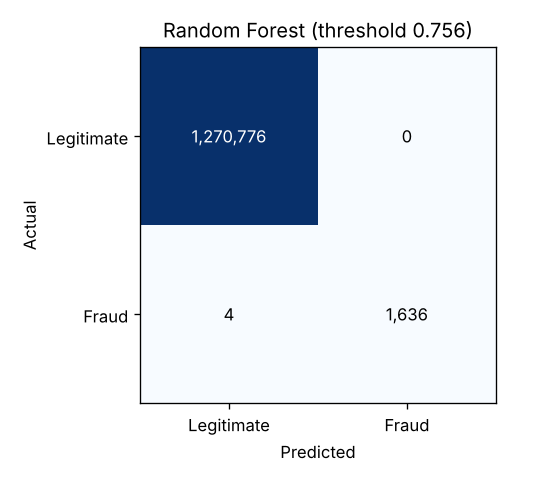
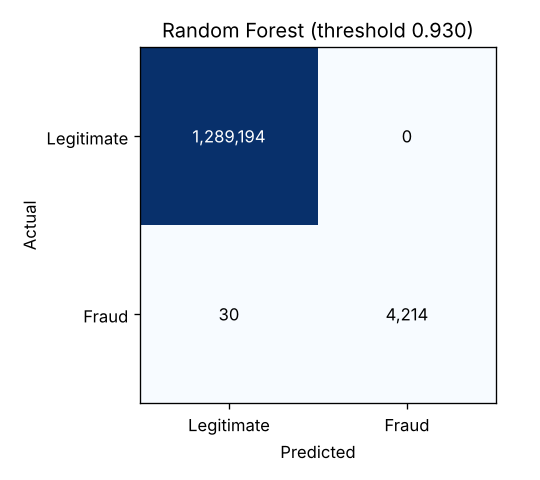
Retrain PaySim on the time split and report honest scores
README and architecture doc now show test results on the latest
transactions, with the old random-split figure for comparison.

Claude-Session: https://claude.ai/code/session_01JTJtAKiAN5g6MkpodCyxMY

diff --git a/README.md b/README.md
@@ -55,7 +55,7 @@ python -m ml.train --dataset paysim --data data/raw/paysim.csv --max-train-rows 
 Sparkov and PaySim take about 5 to 10 minutes each and need a few GB of memory, mostly to load the files. Each run does the following:
 
 1. Loads the CSV, checks the columns, skips invalid rows and drops duplicates.
-2. Splits the data into train, validation and test sets with the same fraud rate in each. Credit card and PaySim are split 60/20/20. Sparkov comes with a later test file, so `fraudTrain.csv` is split 75/25 into train and validation and `fraudTest.csv` is the test set.
+2. Splits the data by time into train, validation and test sets, the way a deployed model meets new data: it learns from the past and is judged on what comes next. Credit card and PaySim are split 60/20/20, so the test set is the latest 20% of transactions. Sparkov comes with a later test file, so the earliest 75% of `fraudTrain.csv` is for training, the latest 25% for validation, and `fraudTest.csv` is the test set. Pass `--random-split` to shuffle rows instead; that mixes the same days into every set and overstates accuracy, so use it only for comparison.
 3. With `--max-train-rows`, keeps every fraud row in the training set but only a sample of the genuine ones. PaySim uses this to train on 1 million of its 3.8 million training rows. The validation and test sets keep their real mix.
 4. Trains five pipelines, each of which scales the inputs, balances the classes with SMOTE (training data only) and fits a classifier:
    - Logistic Regression (baseline)
@@ -85,41 +85,45 @@ Fraud is under 1% of every dataset, so a model that calls everything legitimate 
 
 These are test-set results from `ml/artifacts/<format>/comparison.txt`. The saved model for each format is in bold.
 
-### Credit card (56,746 test transactions, 95 fraud)
+The models are tested on the latest transactions, after the ones they learned from.
+
+### Credit card (56,746 test transactions, 74 fraud)
 
 | Model | Precision | Recall | F1 | PR-AUC | ROC-AUC | Missed fraud | False alerts |
 |---|---|---|---|---|---|---|---|
-| Logistic Regression | 0.887 | 0.747 | 0.811 | 0.734 | 0.968 | 24 | 9 |
-| Decision Tree | 0.602 | 0.747 | 0.667 | 0.476 | 0.927 | 24 | 47 |
-| Random Forest | 0.885 | 0.726 | 0.798 | 0.787 | 0.987 | 26 | 9 |
-| SVM (linear) | 0.755 | 0.747 | 0.751 | 0.707 | 0.970 | 24 | 23 |
-| **Gradient Boosting** | 0.925 | 0.779 | 0.846 | **0.858** | 0.978 | 21 | 6 |
+| Logistic Regression | 0.942 | 0.662 | 0.778 | 0.751 | 0.981 | 25 | 3 |
+| Decision Tree | 0.654 | 0.716 | 0.684 | 0.479 | 0.832 | 21 | 28 |
+| Random Forest | 0.915 | 0.730 | 0.812 | 0.805 | 0.964 | 20 | 5 |
+| SVM (linear) | 0.686 | 0.649 | 0.667 | 0.649 | 0.980 | 26 | 22 |
+| **Gradient Boosting** | 0.867 | 0.703 | 0.776 | **0.785** | 0.968 | 22 | 8 |
 
-Gradient Boosting replaces Random Forest, the model from step 1. It catches 74 of the 95 frauds instead of 69, with 6 false alerts instead of 9.
+Gradient Boosting had the best validation score, so it is the saved model, even though Random Forest did slightly better on the test set. Picking by the test set would make the test result meaningless.
+
+With the earlier random split, the same model scored PR-AUC 0.858 and caught 74 of 95 test frauds. That split mixed both days of the dataset into training and testing, so the model was partly tested on the same day it learned from. The time split is the honest figure.
 
 ### Sparkov (555,719 test transactions, 2,145 fraud)
 
 | Model | Precision | Recall | F1 | PR-AUC | ROC-AUC | Missed fraud | False alerts |
 |---|---|---|---|---|---|---|---|
-| Logistic Regression | 0.278 | 0.566 | 0.373 | 0.181 | 0.964 | 930 | 3,161 |
-| Decision Tree | 0.387 | 0.676 | 0.492 | 0.344 | 0.983 | 695 | 2,300 |
-| Random Forest | 0.843 | 0.700 | 0.765 | 0.813 | 0.995 | 644 | 280 |
-| SVM (linear) | 0.351 | 0.631 | 0.451 | 0.209 | 0.947 | 792 | 2,504 |
-| **Gradient Boosting** | 0.849 | 0.767 | 0.806 | **0.869** | 0.998 | 500 | 293 |
+| Logistic Regression | 0.275 | 0.588 | 0.375 | 0.181 | 0.963 | 883 | 3,329 |
+| Decision Tree | 0.388 | 0.679 | 0.494 | 0.350 | 0.987 | 688 | 2,298 |
+| Random Forest | 0.767 | 0.749 | 0.757 | 0.805 | 0.994 | 539 | 489 |
+| SVM (linear) | 0.348 | 0.627 | 0.448 | 0.206 | 0.945 | 801 | 2,517 |
+| **Gradient Boosting** | 0.855 | 0.772 | 0.811 | **0.869** | 0.998 | 490 | 280 |
 
-The test file covers the six months after the training file, so this is the most realistic of the three results: the model is tested on later transactions than it learned from. Linear models do badly here because fraud depends on combinations, such as a large online purchase late at night, that a single straight line cannot separate.
+The test file always covered the six months after the training file, so this result barely changed. Choosing the threshold on the latest part of the training file now catches 10 more frauds with 13 fewer false alerts. Linear models do badly here because fraud depends on combinations, such as a large online purchase late at night, that a single straight line cannot separate.
 
-### PaySim (1,272,416 test transactions, 1,640 fraud)
+### PaySim (1,293,438 test transactions, 4,244 fraud)
 
 | Model | Precision | Recall | F1 | PR-AUC | ROC-AUC | Missed fraud | False alerts |
 |---|---|---|---|---|---|---|---|
-| Logistic Regression | 0.738 | 0.497 | 0.594 | 0.634 | 0.997 | 825 | 290 |
-| Decision Tree | 0.990 | 0.998 | 0.994 | 0.988 | 0.999 | 4 | 16 |
-| **Random Forest** | 1.000 | 0.998 | 0.999 | **0.999** | 1.000 | 4 | 0 |
-| SVM (linear) | 0.661 | 0.490 | 0.562 | 0.597 | 0.997 | 837 | 412 |
-| Gradient Boosting | 1.000 | 0.998 | 0.999 | 0.998 | 1.000 | 4 | 0 |
+| Logistic Regression | 0.939 | 0.496 | 0.649 | 0.801 | 0.995 | 2,139 | 137 |
+| Decision Tree | 1.000 | 1.000 | 1.000 | 1.000 | 1.000 | 0 | 1 |
+| **Random Forest** | 1.000 | 0.993 | 0.997 | **1.000** | 1.000 | 30 | 0 |
+| SVM (linear) | 0.944 | 0.461 | 0.619 | 0.772 | 0.995 | 2,288 | 117 |
+| Gradient Boosting | 1.000 | 0.996 | 0.998 | 1.000 | 1.000 | 19 | 0 |
 
-The near-perfect score is a quirk of the simulator, not proof of a perfect model. In PaySim, fraudulent transfers almost always empty the account and leave balances that do not add up, which real bank data would not give away so easily.
+The near-perfect score is a quirk of the simulator, not proof of a perfect model. In PaySim, fraudulent transfers almost always empty the account and leave balances that do not add up, which real bank data would not give away so easily. The score stays near-perfect under the time split, which confirms that the simulator, not mixed-up days, is the reason. The last week of the simulation holds far more fraud than the rest (4,244 of 1.29 million test rows, against 3,173 of 3.79 million training rows).
 
 ![Precision-recall curves for credit card](ml/artifacts/creditcard/pr_curves.png)
 

diff --git a/docs/ARCHITECTURE.md b/docs/ARCHITECTURE.md
@@ -137,17 +137,18 @@ Each dataset format has its own model, because the formats share no columns. `ml
 
 | Format | Data | Split | Model inputs | Saved model | Test PR-AUC | Precision | Recall |
 |---|---|---|---|---|---|---|---|
-| `creditcard` | 284,807 card payments, 492 frauds; 1,081 duplicates dropped | 60/20/20, stratified | `Time`, `V1` to `V28`, `Amount` | Gradient Boosting, threshold 0.935 | 0.858 | 0.925 | 0.779 |
-| `sparkov` | 1,852,394 simulated US card payments, 9,651 frauds | `fraudTrain.csv` 75/25 into train and validation; `fraudTest.csv`, six months later, is the test set | amount, hour, night-time, day of week, age, city population, customer-to-merchant distance, merchant category | Gradient Boosting, threshold 0.922 | 0.869 | 0.849 | 0.767 |
-| `paysim` | 6,362,620 simulated mobile-money transfers, 8,213 frauds; 543 duplicates dropped | 60/20/20, stratified; training cut to 1 million rows, keeping every fraud | type, amount, the four balances, account emptied, balance mismatches, hour | Random Forest, threshold 0.756 | 0.999 | 1.000 | 0.998 |
+| `creditcard` | 284,807 card payments, 492 frauds; 1,081 duplicates dropped | 60/20/20 by time | `Time`, `V1` to `V28`, `Amount` | Gradient Boosting, threshold 0.514 | 0.785 | 0.867 | 0.703 |
+| `sparkov` | 1,852,394 simulated US card payments, 9,651 frauds | `fraudTrain.csv` 75/25 by time into train and validation; `fraudTest.csv`, six months later, is the test set | amount, hour, night-time, day of week, age, city population, customer-to-merchant distance, merchant category | Gradient Boosting, threshold 0.926 | 0.869 | 0.855 | 0.772 |
+| `paysim` | 6,362,620 simulated mobile-money transfers, 8,213 frauds; 543 duplicates dropped | 60/20/20 by time; training cut to 1 million rows, keeping every fraud | type, amount, the four balances, account emptied, balance mismatches, hour | Random Forest, threshold 0.930 | 1.000 | 1.000 | 0.993 |
 
 - **Pipeline:** `StandardScaler`, then `SMOTE`, then the classifier. SMOTE runs only while fitting, so validation and test rows are never resampled.
 - **Candidates:** Logistic Regression, Decision Tree, Random Forest, a linear SVM and Gradient Boosting (`HistGradientBoostingClassifier`).
+- **Split by time:** each model trains on the earliest transactions, picks its model and threshold on the next period, and is tested on the latest, as it would be once deployed. Rows with the same time stay in one set. The earlier random split mixed days across the sets and overstated accuracy: the credit card model's test PR-AUC drops from 0.858 to 0.785 under the time split. `--random-split` keeps the old split for comparison.
 - **Selection:** the highest PR-AUC on the validation set picks the model. Its alert threshold is the one that gives the best F1 on the validation set. The test set is scored once, at the end.
 - **Gradient Boosting needs regularisation.** Without an L2 penalty on its leaves, it fell apart on PaySim (validation PR-AUC 0.02), because leaves holding only SMOTE-made fraud rows got extreme values. With `l2_regularization=1.0` it reached 0.997.
 - **Fairness:** Sparkov includes each customer's gender. It is neither stored nor used, so the model cannot score men and women differently. An earlier version used it, and it showed up as a reason for some alerts. Names, street, job, ZIP code and the full card number are also never stored.
 - **PaySim's caveat:** its near-perfect score comes from the simulator. Its fraudulent transfers almost always empty the account and leave balances that do not add up, which makes them easy to spot. Real data would not be this clean, so the Sparkov result is the better guide to real-world performance.
-- **Step 1's model:** Random Forest on the credit card data, with test PR-AUC 0.787. Gradient Boosting now catches 74 of the 95 test frauds instead of 69, with 6 false alerts instead of 9.
+- **Step 1's model:** Random Forest on the credit card data, with test PR-AUC 0.787 under the old random split.
 
 ### Why a transaction was flagged
 
